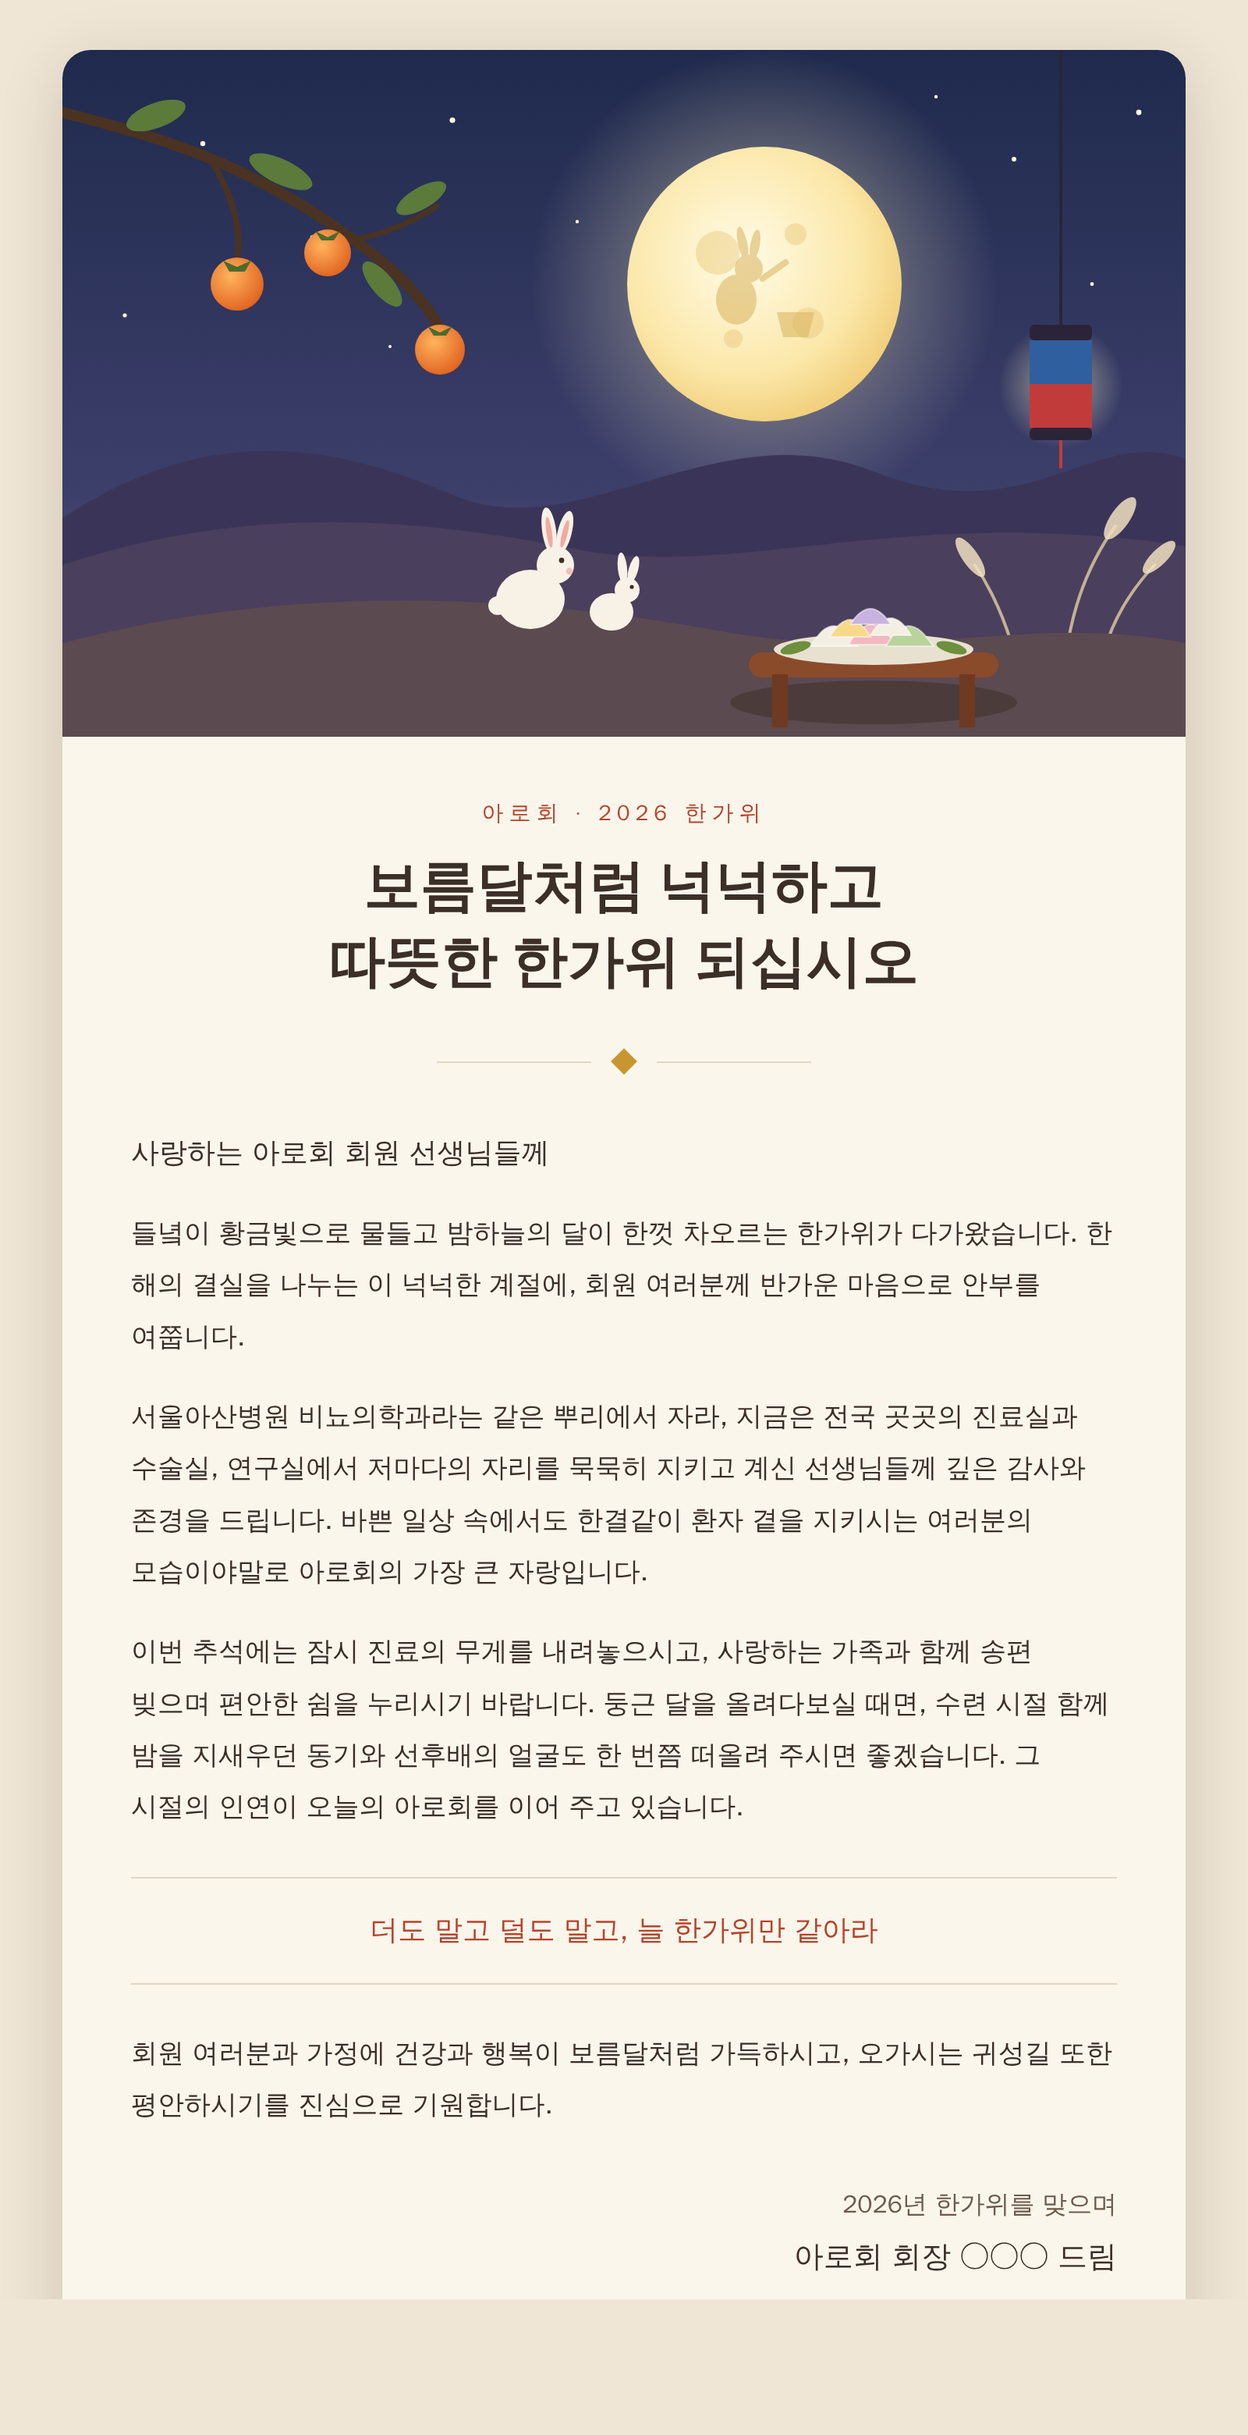
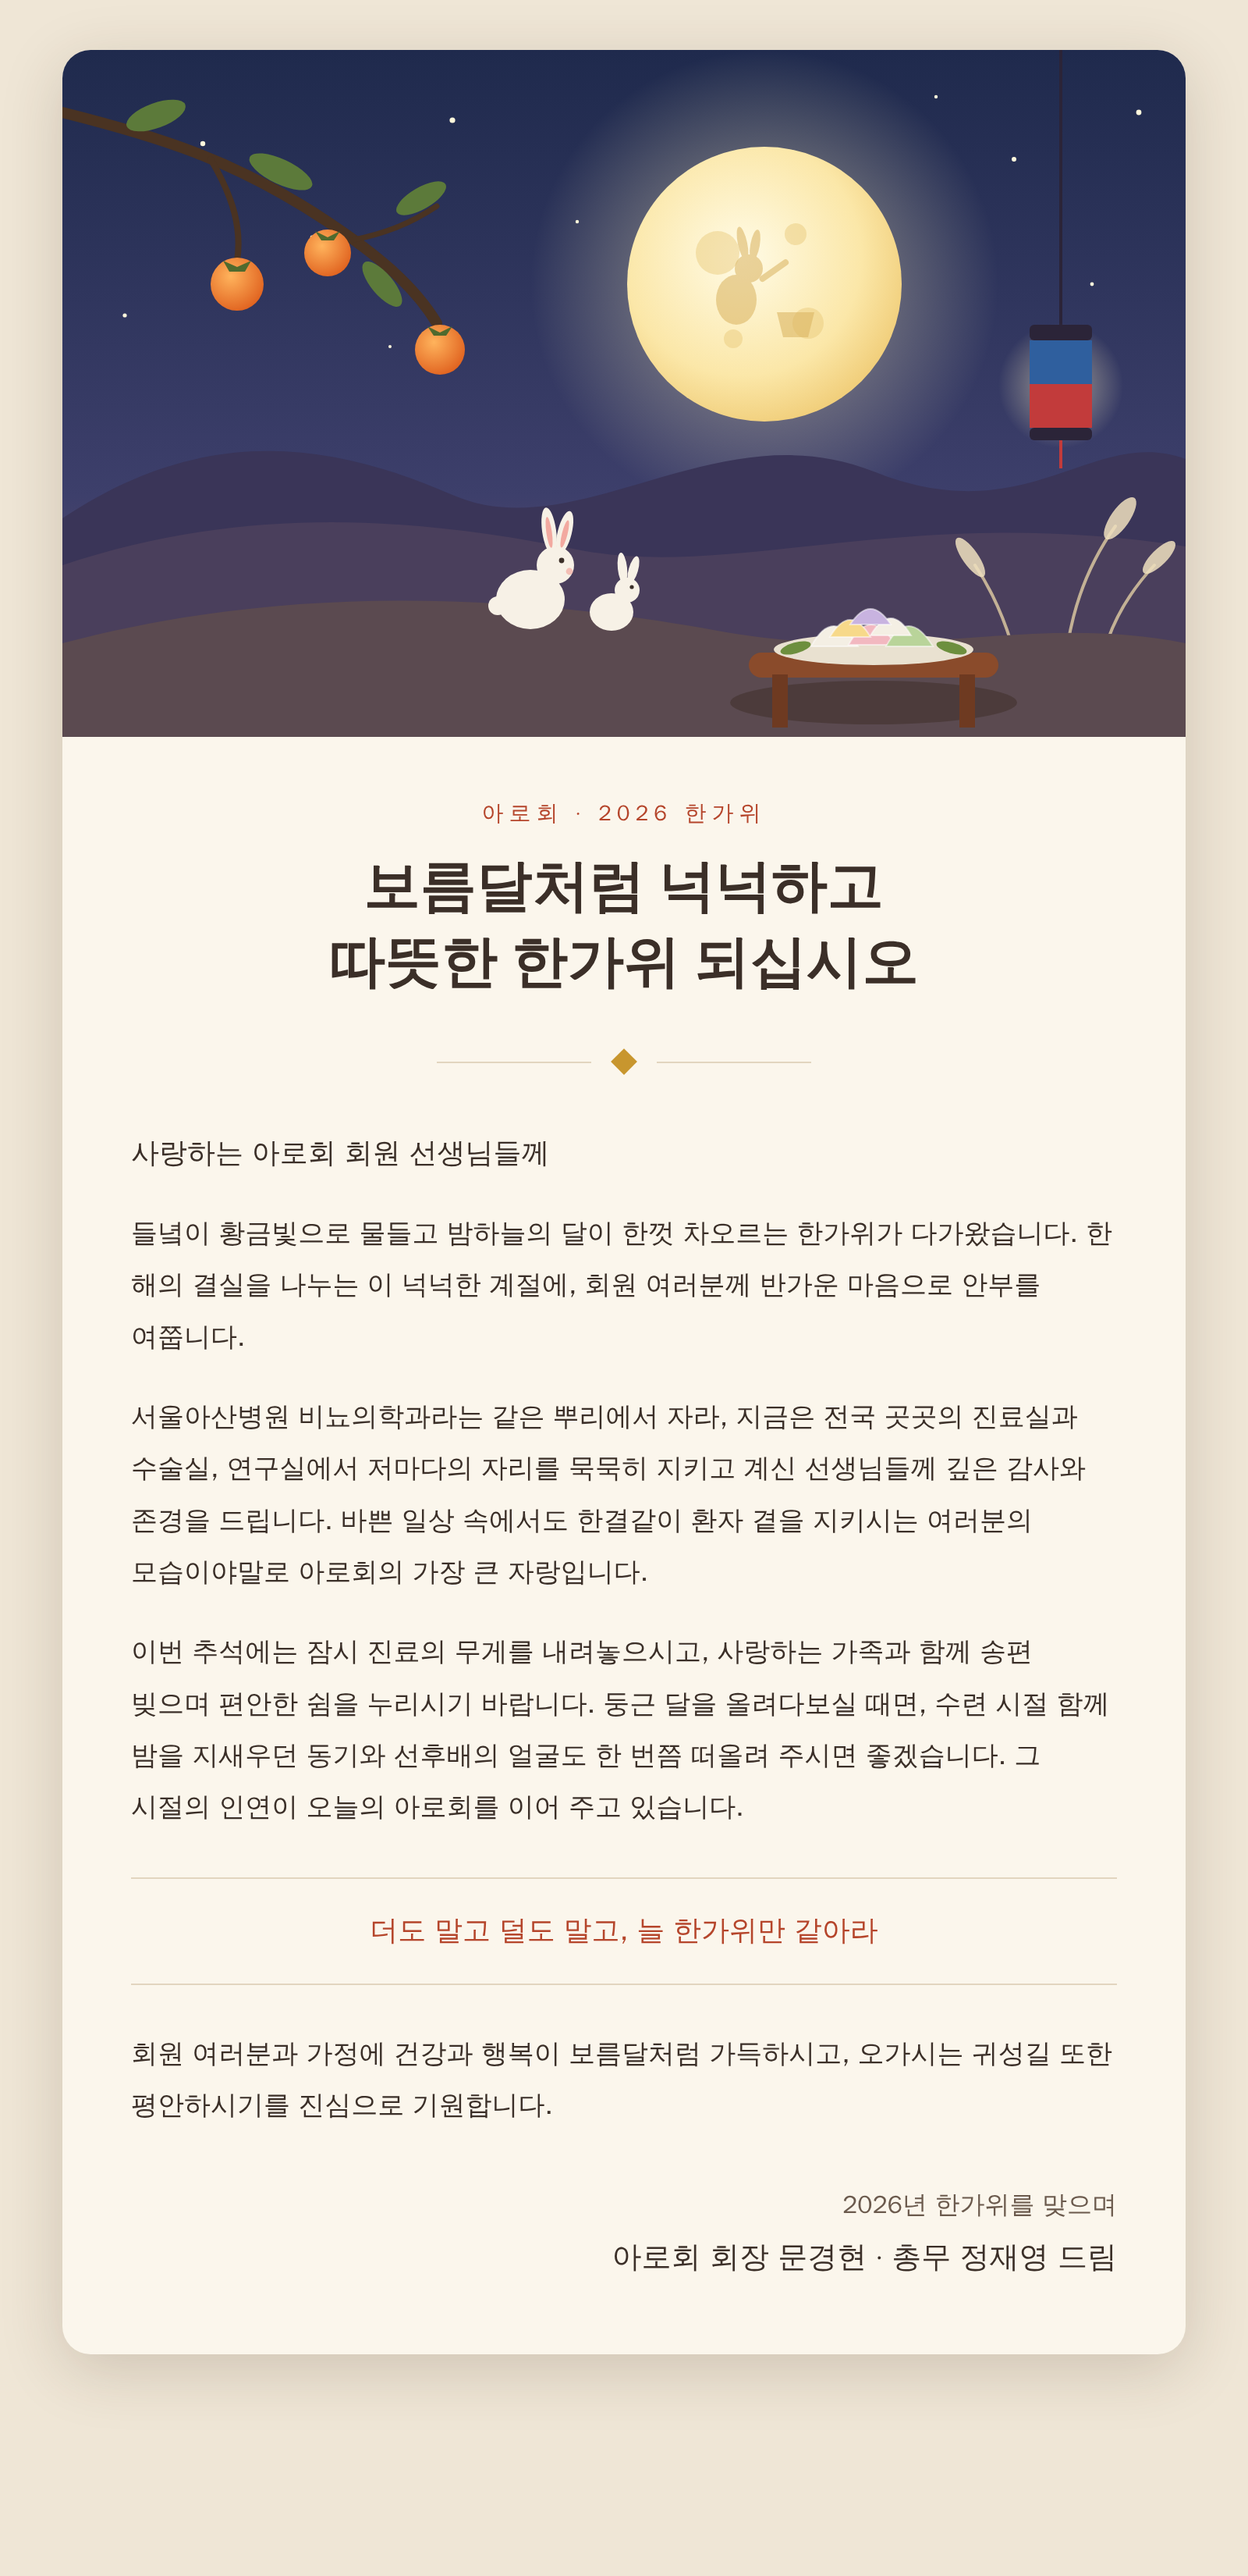
추석 인사 카드 서명에 회장·총무 이름 반영
Claude-Session: https://claude.ai/code/session_01K2e1zkMETd8hpvakp6dQk2

diff --git a/chuseok2026/aroh_chuseok_2026.html b/chuseok2026/aroh_chuseok_2026.html
@@ -239,7 +239,7 @@
 
     <div class="sign">
       2026년 한가위를 맞으며<br>
-      <strong>아로회 회장 ○○○ 드림</strong>
+      <strong>아로회 회장 문경현 · 총무 정재영 드림</strong>
     </div>
   </div>
 </article>
